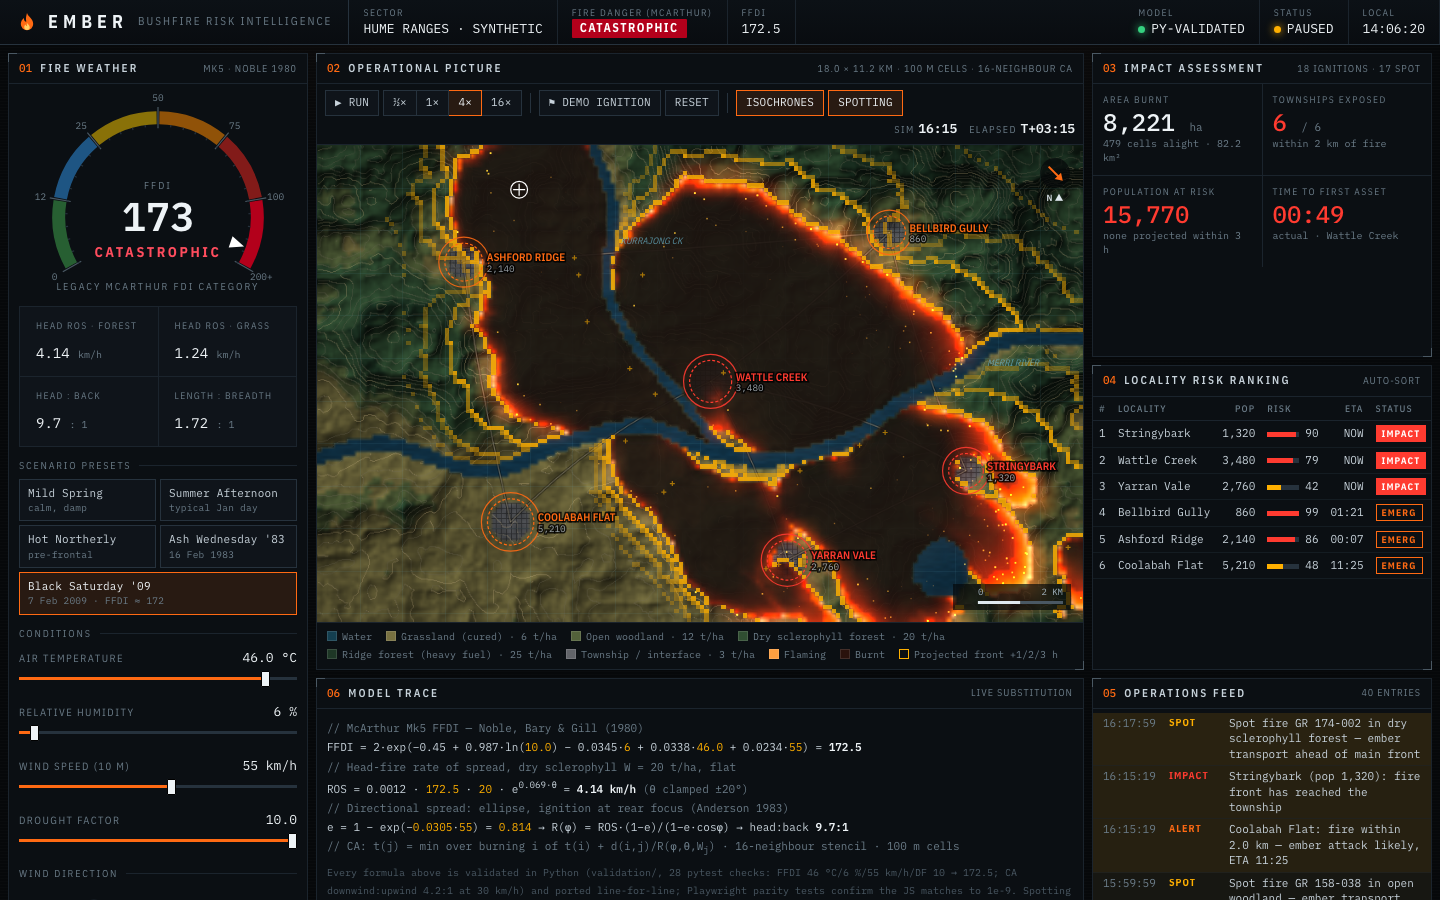
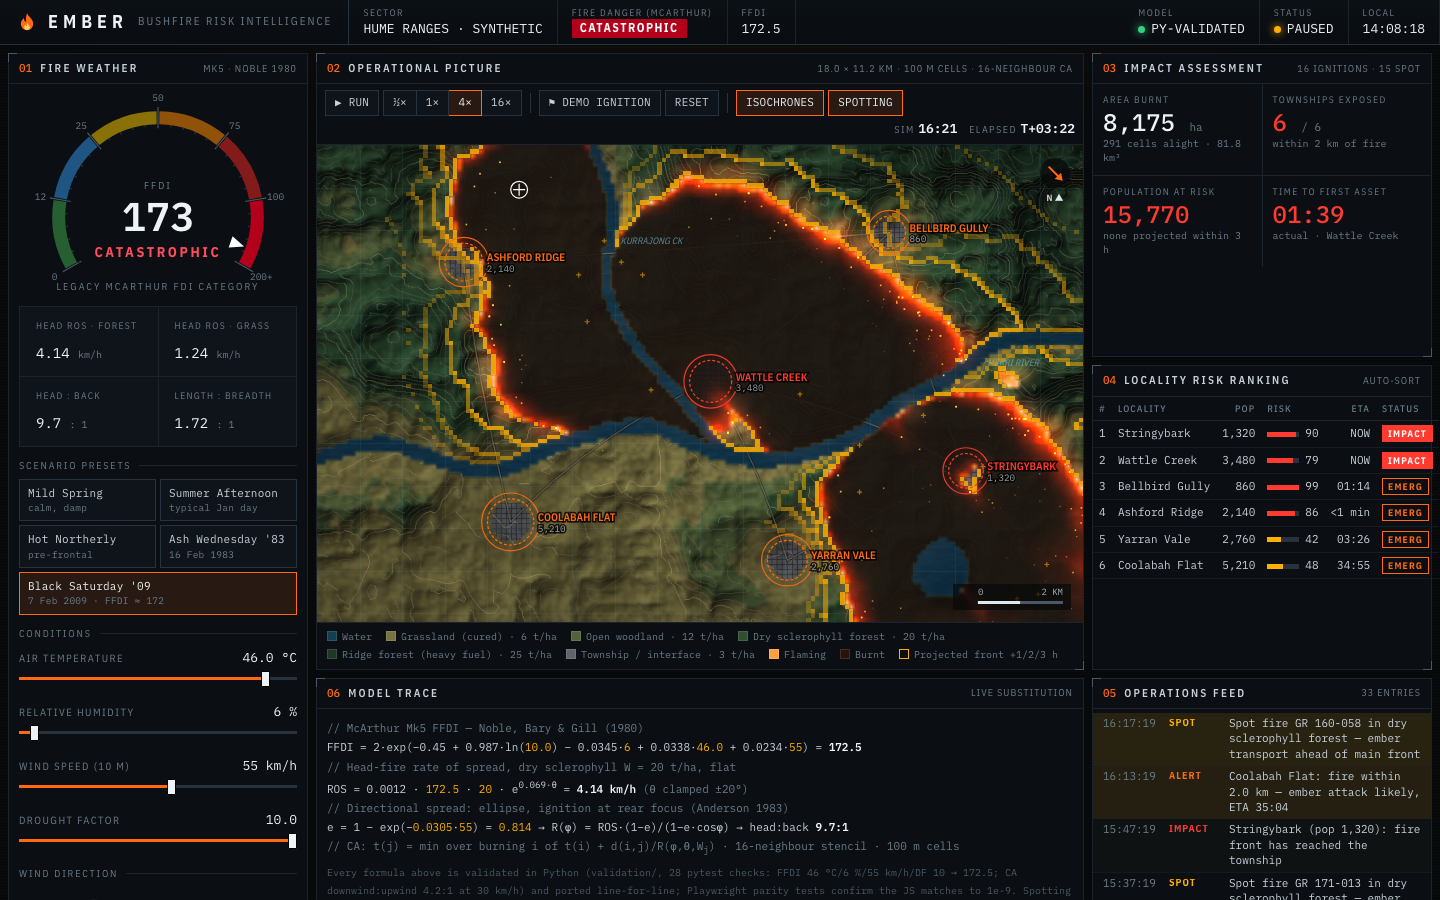
Phase 4: Open Graph tags, OG image, README, MIT licence
og:image uses the absolute Pages URL for LinkedIn previews. README
covers the pitch, live link, validated science, tests, stack and what's
next (BoM weather, GIS data, AFDRS migration). Fix ranking table
overflow at 1100-1280px and add a 1200px layout test.

diff --git a/index.html b/index.html
@@ -6,6 +6,22 @@
 <title>EMBER · Bushfire Risk Intelligence</title>
 <meta name="description" content="EMBER is a bushfire risk intelligence console: McArthur Mk5 FFDI, validated rate-of-spread and a wind-driven cellular-automaton fire model running live in the browser.">
 <meta name="theme-color" content="#07090b">
+<link rel="canonical" href="https://nrjalela.github.io/ember/">
+<meta property="og:type" content="website">
+<meta property="og:site_name" content="EMBER">
+<meta property="og:title" content="EMBER · Bushfire Risk Intelligence">
+<meta property="og:description" content="Live fire-danger console: validated McArthur Mk5 FFDI, rate of spread and a wind-driven cellular-automaton fire model with township impact analysis. Try Black Saturday '09 conditions in your browser.">
+<meta property="og:url" content="https://nrjalela.github.io/ember/">
+<meta property="og:image" content="https://nrjalela.github.io/ember/og-image.png">
+<meta property="og:image:secure_url" content="https://nrjalela.github.io/ember/og-image.png">
+<meta property="og:image:type" content="image/png">
+<meta property="og:image:width" content="1200">
+<meta property="og:image:height" content="630">
+<meta property="og:image:alt" content="EMBER operations console showing a simulated bushfire spreading toward townships under catastrophic fire danger">
+<meta name="twitter:card" content="summary_large_image">
+<meta name="twitter:title" content="EMBER · Bushfire Risk Intelligence">
+<meta name="twitter:description" content="Validated McArthur fire-danger science and a live fire-spread simulation, in one HTML file.">
+<meta name="twitter:image" content="https://nrjalela.github.io/ember/og-image.png">
 <link rel="preconnect" href="https://fonts.googleapis.com">
 <link rel="preconnect" href="https://fonts.gstatic.com" crossorigin>
 <link href="https://fonts.googleapis.com/css2?family=IBM+Plex+Mono:wght@400;500;600&family=IBM+Plex+Sans+Condensed:wght@400;500;600;700&display=swap" rel="stylesheet">
@@ -159,7 +175,9 @@ footer a{color:var(--dim)}
 
 /* ---------- responsive ---------- */
 @media (max-width:1280px){
-  .console{grid-template-columns:280px minmax(0,1fr) 300px}
+  .console{grid-template-columns:270px minmax(0,1fr) 320px}
+  .rbar{display:none}
+  td,th{padding-left:5px;padding-right:5px}
 }
 @media (max-width:1100px){
   .console{grid-template-columns:minmax(0,1fr) minmax(0,1fr);

diff --git a/tests/console.spec.js b/tests/console.spec.js
@@ -154,6 +154,7 @@ test.describe('EMBER console', () => {
 
 const VIEWPORTS = [
   { name: 'desktop', width: 1440, height: 900 },
+  { name: 'laptop', width: 1200, height: 800 },
   { name: 'tablet', width: 834, height: 1112 },
   { name: 'mobile', width: 390, height: 844 },
 ];
@@ -166,16 +167,18 @@ for (const vp of VIEWPORTS) {
     await page.evaluate(() => document.fonts.ready);
     const overflow = await page.evaluate(() => document.documentElement.scrollWidth - window.innerWidth);
     expect(overflow).toBeLessThanOrEqual(0);
+    const tableFits = await page.evaluate(() => { const t = document.querySelector('[data-testid=rank-body]').closest('table'); return t.scrollWidth <= t.parentElement.clientWidth; });
+    expect(tableFits).toBe(true);
     await expect(page.getByTestId('map')).toBeVisible();
     const map = await page.getByTestId('map').boundingBox();
-    expect(map.width).toBeGreaterThan(vp.width * (vp.name === 'desktop' ? 0.4 : 0.9));
+    expect(map.width).toBeGreaterThan(vp.width * (vp.width >= 1200 ? 0.4 : 0.9));
     // Deterministic mid-fire scene for the screenshot
     await page.evaluate(() => { Math.random = (() => { let s = 7; return () => ((s = (s * 16807) % 2147483647) / 2147483647); })(); });
     await page.getByTestId('btn-demo').click();
     await page.getByTestId('speed-4').click();
     await page.waitForTimeout(5000);
     await page.getByTestId('btn-play').click();
-    await page.screenshot({ path: `screenshots/${vp.name}.png`, fullPage: vp.name !== 'desktop' });
+    await page.screenshot({ path: `screenshots/${vp.name}.png`, fullPage: !['desktop', 'laptop'].includes(vp.name) });
     expect(errors).toEqual([]);
   });
 }

diff --git a/README.md b/README.md
@@ -1,0 +1,105 @@
+# EMBER · Bushfire Risk Intelligence
+
+**A fire-agency style operations console that turns weather into fire danger, fire danger into spread, and spread into township impact, live in the browser.**
+The science is validated in Python first, then ported line for line to JavaScript and checked against the Python output to 1e-9.
+
+### ▶ Live demo: **[nrjalela.github.io/ember](https://nrjalela.github.io/ember/)**
+
+![EMBER console running a Black Saturday '09 scenario](screenshots/desktop.png)
+
+---
+
+## What it does
+
+| | |
+|---|---|
+| **Fire danger** | Live McArthur Mk5 Forest Fire Danger Index gauge, coloured by the legacy McArthur FDI categories (Low-Moderate → Catastrophic) |
+| **Weather controls** | Draggable wind compass; sliders for temperature, humidity, wind speed and drought factor; a one-click south-westerly wind change |
+| **Scenarios** | Mild Spring, Summer Afternoon, Hot Northerly, Ash Wednesday '83, Black Saturday '09 (FFDI ≈ 172) |
+| **Fire spread** | Click anywhere to ignite. A cellular-automaton model spreads the fire over procedural terrain (forest ridges, grass valleys, rivers, a reservoir), with ember glow, ember spotting and 1/2/3-hour projected fire-front lines |
+| **Impact** | Area burnt, townships exposed, population at risk, time to first asset (projected, then actual) |
+| **Risk ranking** | The six townships re-rank live by status, ETA and an exposure index built from fuel hazard and upwind fuel |
+| **Ops feed** | A timestamped log of ignitions, spot fires, weather changes, danger-band changes and township alerts |
+| **Model trace** | Every equation is shown with the current values substituted, so you can audit the numbers on screen |
+
+It works on desktop, tablet and phone. The whole site is one `index.html` with no build step and no framework.
+
+## The validated science
+
+All model maths lives in [`validation/ember_model.py`](validation/ember_model.py) and is covered by **28 pytest checks** ([`validation/test_ember.py`](validation/test_ember.py)). None of it went into the UI until every check passed.
+
+| Component | Formula | Key validation |
+|---|---|---|
+| **Fire danger** (Noble, Bary & Gill 1980) | `FFDI = 2·exp(−0.45 + 0.987·ln DF − 0.0345·RH + 0.0338·T + 0.0234·V)` | 46 °C, 6 % RH, 55 km/h, DF 10 → **172.5** ✓ |
+| **Danger bands** | Legacy McArthur FDI categories: 0 / 12 / 25 / 50 / 75 / 100+ | Every band boundary tested |
+| **Rate of spread** (McArthur Mk5 forest) | `ROS = 0.0012 · FFDI · W · e^(0.069·θ)` km/h, slope θ clamped to ±20° | Linear in FFDI and fuel; **doubles per +10° upslope**, halves per 10° downslope |
+| **Directional spread** (Anderson 1983 shape) | `R(φ) = ROS·(1−e)/(1−e·cos φ)`, `e = 1 − exp(−k·V)` | Head:back ratio exactly **4:1 at 30 km/h** |
+| **Fire-spread CA** | Each cell ignites at the earliest `t(i) + d(i,j) / R(φ, θ, Wⱼ)` over its 16 neighbours; water and fuel breaks block spread | Downwind:upwind **4.2:1** ✓, elliptical scar within 10 % of π·a·b ✓, circular in calm ✓, 4:1 upslope ✓, rivers stop the fire ✓, safe mid-fire recompute after a wind change ✓ |
+
+**JS ↔ Python parity.** [`validation/export_fixtures.py`](validation/export_fixtures.py) exports reference outputs. [`tests/parity.spec.js`](tests/parity.spec.js) runs the browser port against them, including a full arrival-time map on a landscape with a hill and a river. Every cell matches to a relative error below **1e-9**.
+
+**Honest limits.** This is an educational model on synthetic terrain.
+- It uses the forest meter everywhere. Operationally, grassland uses the McArthur *Grassland* meter (GFDI).
+- Spotting is a probabilistic heuristic and is not validated.
+- Fuel loads are static.
+- It is **not** an operational tool.
+
+## Testing
+
+```bash
+npm run validate      # 28 pytest checks on the science
+npx playwright test   # 17 browser tests
+```
+
+The Playwright suite checks:
+- zero console errors
+- every preset lands in the right band
+- sliders drive the gauge
+- the compass works by drag and by keyboard
+- click-to-ignite spreads the fire and updates the KPIs
+- the demo fire reaches a township
+- water can't be ignited
+- pause and reset work
+- JS/Python parity
+- layout at 1440, 1200, 834 and 390 px: no horizontal scroll, tables fit, screenshots saved to [`screenshots/`](screenshots/)
+
+## Tech stack
+
+- **Science:** Python 3.13, pytest. The model uses only the standard library, so it's easy to audit.
+- **App:** vanilla JavaScript, HTML Canvas 2D (procedural value-noise terrain, hillshade, contours, additive-blend fire glow and ember particles), inline SVG instruments, CSS Grid.
+- **Algorithm:** the fire spread is a minimum-travel-time cellular automaton. It uses Dijkstra's algorithm with a binary heap on a 180 × 112 grid of 100 m cells, 16-neighbour stencil, so a full recompute takes a few milliseconds.
+- **Testing:** Playwright (Chromium).
+- **Hosting:** GitHub Pages, with Open Graph and Twitter cards for link previews.
+
+## Run locally
+
+```bash
+python3 -m http.server 8000   # then open http://localhost:8000
+```
+
+To run the tests:
+
+```bash
+python3 -m venv .venv && .venv/bin/pip install -r validation/requirements.txt
+npm install && npx playwright install chromium
+npm run validate && npx playwright test
+```
+
+## What I'd build next
+
+1. **Real weather.** Pull Bureau of Meteorology observations and gridded forecasts (ADFD) so the FFDI and wind update each hour for a real location, with KBDI/SDI soil-dryness data driving the drought factor.
+2. **Real landscapes.** Use GIS data: a DEM (Geoscience Australia 1-sec SRTM), state fuel-type and fuel-hazard layers, fire history for time-since-fire fuel loads, and ABS mesh blocks for population. Serve them as Cloud-Optimised GeoTIFFs and render on MapLibre GL.
+3. **Migrate to the Australian Fire Danger Rating System (AFDRS, 2022).** Replace the legacy McArthur categories with the four-level AFDRS scale (Moderate / High / Extreme / Catastrophic) and its fuel-specific fire-behaviour models (e.g. Vesta Mk2 for dry eucalypt forest, CSIRO grassland).
+4. **Uncertainty.** Run ensemble fire spread across weather-forecast members and show burn probability instead of a single scar.
+5. **Validation against real fires.** Hindcast historical fire perimeters (e.g. Kilmore East 2009) and report spread-rate and shape error.
+6. **Operational features.** Evacuation-route exposure along the road network, suppression and containment-line scenarios, and exportable situation reports.
+
+## References
+
+- McArthur, A.G. (1967). *Fire behaviour in eucalypt forests.* Leaflet 107, Forestry and Timber Bureau, Canberra.
+- Noble, I.R., Bary, G.A.V. & Gill, A.M. (1980). McArthur's fire-danger meters expressed as equations. *Australian Journal of Ecology* 5, 201–203.
+- Anderson, H.E. (1983). *Predicting wind-driven wild land fire size and shape.* USDA Forest Service Research Paper INT-305.
+
+---
+
+Built by [@nrjalela](https://github.com/nrjalela) · MIT licence · Township names and terrain are fictional. In a real emergency, follow your state fire agency.
